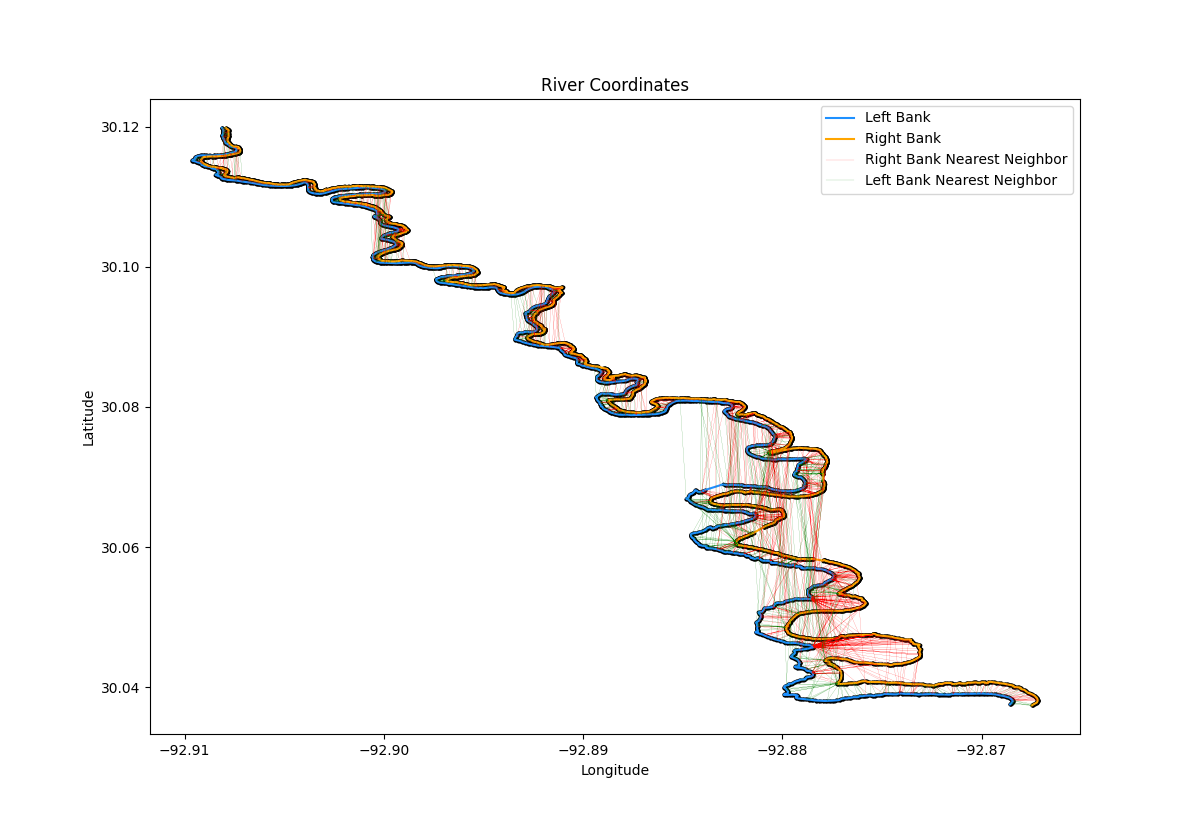
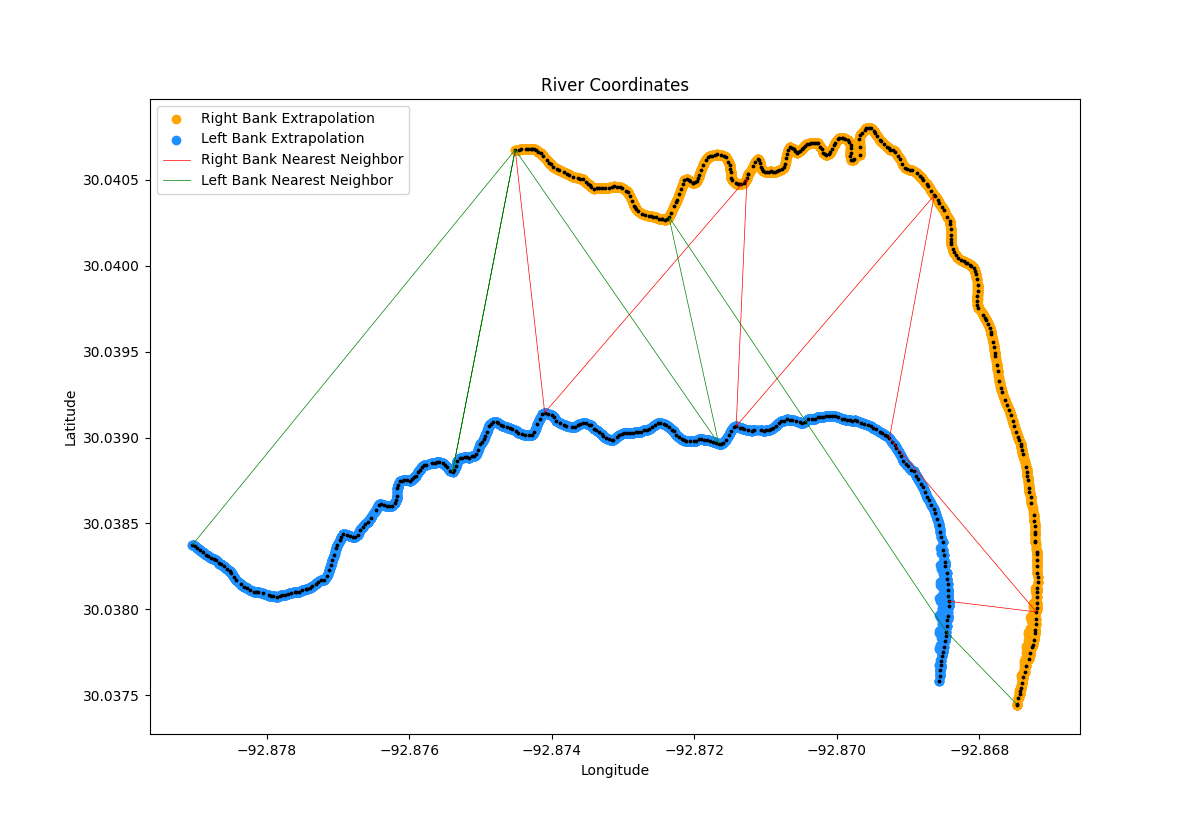
sort bank pairs by KNN

diff --git a/river_centerline_width.py b/river_centerline_width.py
@@ -40,16 +40,31 @@ def plotRiver(river_df,
 			latitude_extrapolation, longitude_extrapolation, 
 			right_bank_nearest_neighbor_x, right_bank_nearest_neighbor_y,
 			left_bank_nearest_neighbor_x, left_bank_nearest_neighbor_y,
+			right_bank_expanded, left_bank_expanded,
 			save_plot_name):
 	# Plot river based on right/left bank coordinates
 	fig = plt.figure(figsize=(12,12), dpi=100)
+	x = []
+	y = []
+	for i in right_bank_expanded: 
+		x.append(i[1])
+		y.append(i[0])
+	plt.scatter(x, y, c="orange", label="Right Bank Extrapolation")
+	x = []
+	y = []
+	for i in left_bank_expanded: 
+		x.append(i[1])
+		y.append(i[0])
+	plt.scatter(x, y, c="dodgerblue", label="Left Bank Extrapolation")
+	
 	plt.title("River Coordinates")
 	plt.scatter(x=river_df['llon'], y=river_df['llat'], s=3, c="black")
-	plt.plot(river_df['llon'], river_df['llat'], c="dodgerblue", label="Left Bank")
+	#plt.plot(river_df['llon'], river_df['llat'], c="dodgerblue", label="Left Bank")
 	plt.scatter(x=river_df['rlon'], y=river_df['rlat'], s=3, c="black")
-	plt.plot(river_df['rlon'], river_df['rlat'], c="orange", label="Right Bank")
-	plt.plot(right_bank_nearest_neighbor_x, right_bank_nearest_neighbor_y, c="red", linewidth=0.1, label="Right Bank Nearest Neighbor")
-	plt.plot(left_bank_nearest_neighbor_x, left_bank_nearest_neighbor_y, c="green", linewidth=0.1, label="Left Bank Nearest Neighbor")
+	#plt.plot(river_df['rlon'], river_df['rlat'], c="orange", label="Right Bank")
+
+	plt.plot(right_bank_nearest_neighbor_x, right_bank_nearest_neighbor_y, c="red", linewidth=0.5, label="Right Bank Nearest Neighbor")
+	plt.plot(left_bank_nearest_neighbor_x, left_bank_nearest_neighbor_y, c="green", linewidth=0.5, label="Left Bank Nearest Neighbor")
 	plt.xlabel("Longitude")
 	plt.ylabel("Latitude")
 	plt.legend()
@@ -58,9 +73,9 @@ def plotRiver(river_df,
 
 ########################################################################
 if __name__ == "__main__":
-	convertColumnsToCSV("data/river_coords.txt")
+	#convertColumnsToCSV("data/river_coords.txt")
 	df = pd.read_csv("data/river_coords.csv")
-	#df = df.head(100)
+	df = df.head(310)
 
 	# Lines between points on graph
 	latitude_points = []
@@ -75,28 +90,57 @@ if __name__ == "__main__":
 		if not math.isnan(row.llat) and not math.isnan(row.llon):
 			left_bank_pairs.append([row.llat, row.llon])
 
-	# Sort pair of lists by longitude (second value)
+	# Sort pair of lists
+	## Sort in order by KNN
+	def euclidian_distance(a,b):
+		return np.linalg.norm(a-b)
 	right_bank_pairs.sort(key=lambda x: x[1])
+	right_bank_pairs = np.array(right_bank_pairs)
+	right_bank_pairs = sorted(right_bank_pairs, key = lambda point: euclidian_distance(point,right_bank_pairs[0]))
+	right_bank_pairs = [list(x) for x in right_bank_pairs]
 	left_bank_pairs.sort(key=lambda x: x[1])
+	left_bank_pairs = np.array(left_bank_pairs)
+	left_bank_pairs = list(sorted(left_bank_pairs, key = lambda point: euclidian_distance(point,left_bank_pairs[0])))
+	left_bank_pairs = [list(x) for x in left_bank_pairs]
+
+	# Add points between existing points to increase closest neighbors
+	def expand_list(lst, expand_n):
+		bank_expanded = []
+		for i in range(len(lst)):
+			#right_bank_expanded.append(right_bank_point)
+			bank_expanded.append(lst[i])
+			if i+1 < len(lst):
+				x_expand = np.linspace(lst[i][0], lst[i+1][0], expand_n)
+				y_expand = np.linspace(lst[i][1], lst[i+1][1], expand_n)
+				for j in range(len(x_expand)):
+					bank_expanded.append([x_expand[j],y_expand[j]])
+				bank_expanded.append(lst[i+1])
+		return bank_expanded
+	expanded = 10
+	right_bank_expanded = expand_list(right_bank_pairs, expanded)
+	left_bank_expanded =  expand_list(left_bank_pairs, expanded)
 
 	# Search for closest value in list of lists (KNN)
 	from scipy import spatial
+
 	# Closest neighbors to the right bank
+	plot_every_n = 100
 	right_bank_nearest_neighbor_x = []
 	right_bank_nearest_neighbor_y = [] # closest left pair
-	tree = spatial.KDTree(np.array(left_bank_pairs))
-	for right_pair in right_bank_pairs[::10]:
+	tree = spatial.KDTree(np.array(left_bank_expanded))
+	for right_pair in right_bank_pairs[::plot_every_n]:
 		distances, index = tree.query(right_pair)
 		closest_left_pair = list(tree.data[index])
 		right_bank_nearest_neighbor_x.append(right_pair[1])
 		right_bank_nearest_neighbor_x.append(closest_left_pair[1])
 		right_bank_nearest_neighbor_y.append(right_pair[0])
 		right_bank_nearest_neighbor_y.append(closest_left_pair[0])
+
 	#Closest neighbors to the left bank
 	left_bank_nearest_neighbor_x = []
 	left_bank_nearest_neighbor_y = [] # closest right pair
-	tree = spatial.KDTree(np.array(right_bank_pairs))
-	for left_pair in left_bank_pairs[::10]:
+	tree = spatial.KDTree(np.array(right_bank_expanded))
+	for left_pair in left_bank_pairs[::plot_every_n]:
 		distances, index = tree.query(left_pair)
 		closest_right_pair = list(tree.data[index])
 		left_bank_nearest_neighbor_x.append(left_pair[1])
@@ -108,4 +152,5 @@ if __name__ == "__main__":
 	plotRiver(df, latitude_points, longitude_points,
 			right_bank_nearest_neighbor_x, right_bank_nearest_neighbor_y,
 			left_bank_nearest_neighbor_x, left_bank_nearest_neighbor_y,
+			right_bank_expanded, left_bank_expanded,
 			 "data/river_coords.png")
